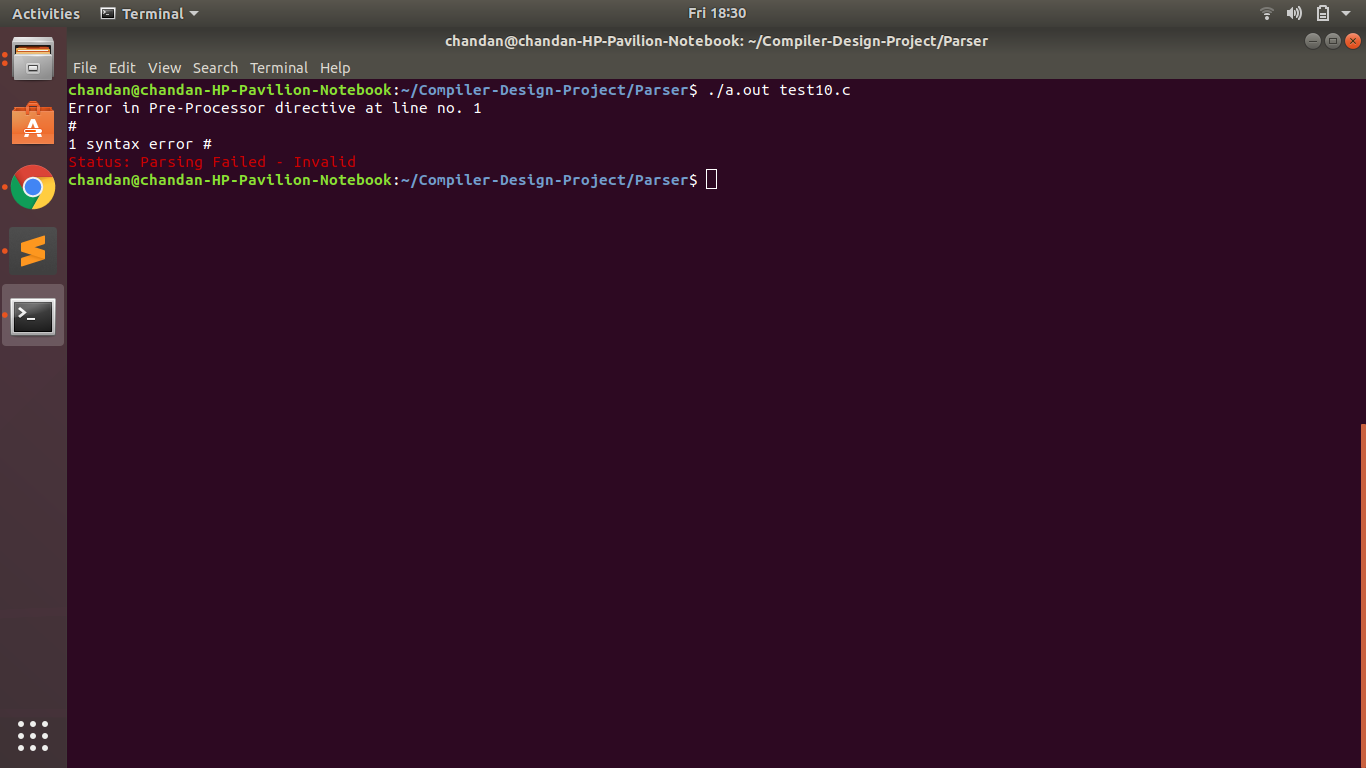
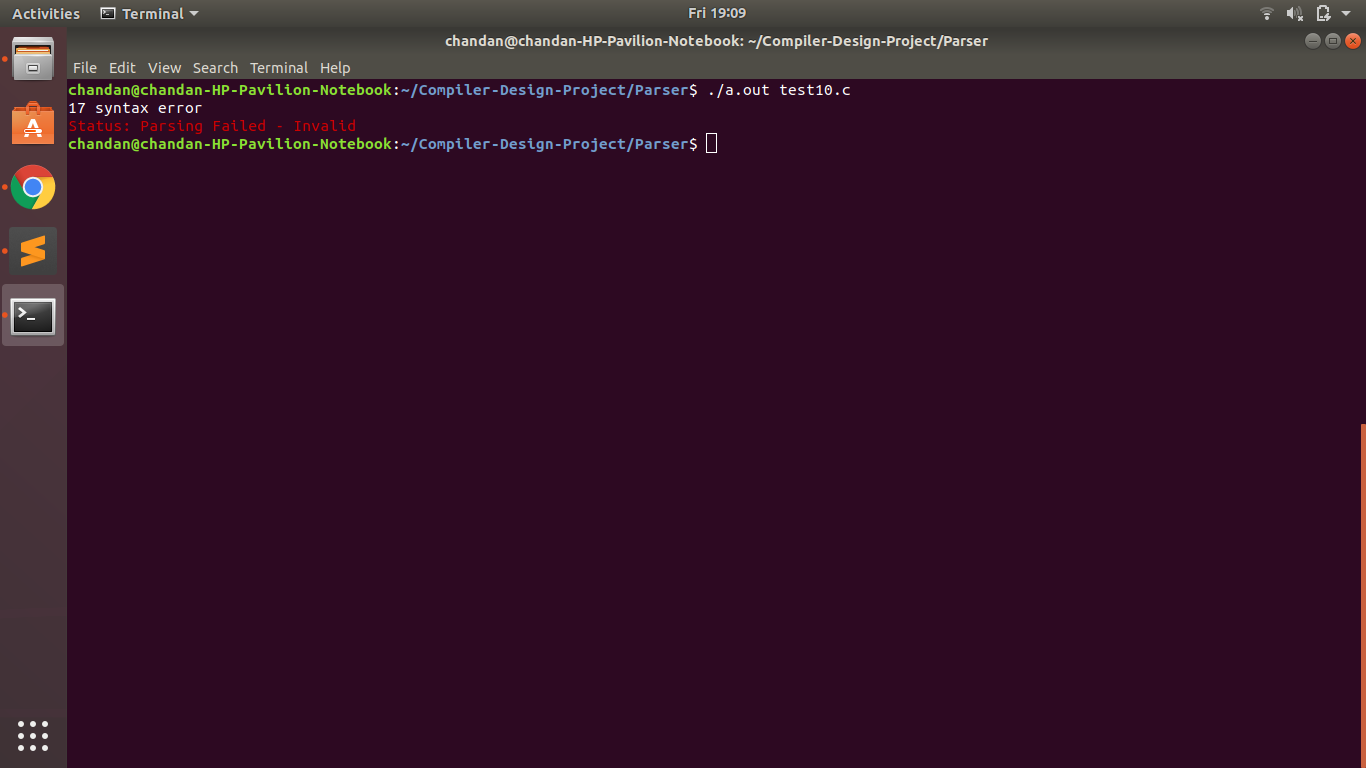
updation of test-case 9,10 in parser

Changed region(s): [[0.0307, 0.125, 0.5227, 0.25], [0.5227, 0.0, 0.5534, 0.0312]]

diff --git a/Parser/test-cases/Test10-Error/test10.c b/Parser/test-cases/Test10-Error/test10.c
@@ -1,1 +1,16 @@
-#include stdio.h>
+#include<stdio.h>
+
+int main(){
+    int n,i;
+    char ch;//Character Datatype
+
+    for (i=0;i<n;i++){
+        if(i<10){
+            int x;
+            while(x<10){
+                x++;
+        }
+
+    }
+    
+}

diff --git a/Parser/test-cases/Test9-Error/test9.c b/Parser/test-cases/Test9-Error/test9.c
@@ -1,5 +1,15 @@
-#include <stdio.h>
-int main()
-{
-	int 9abi = 10;
+#include<stdio.h>
+
+int fun(char x){
+	return x*x;
+}
+
+void main(){
+	int a=2,b,c,d,e,f,g,h;
+
+	c=a+b;
+	d=a*b
+	h=fun(b);
+
+	//This Test case no semicolon
 }
